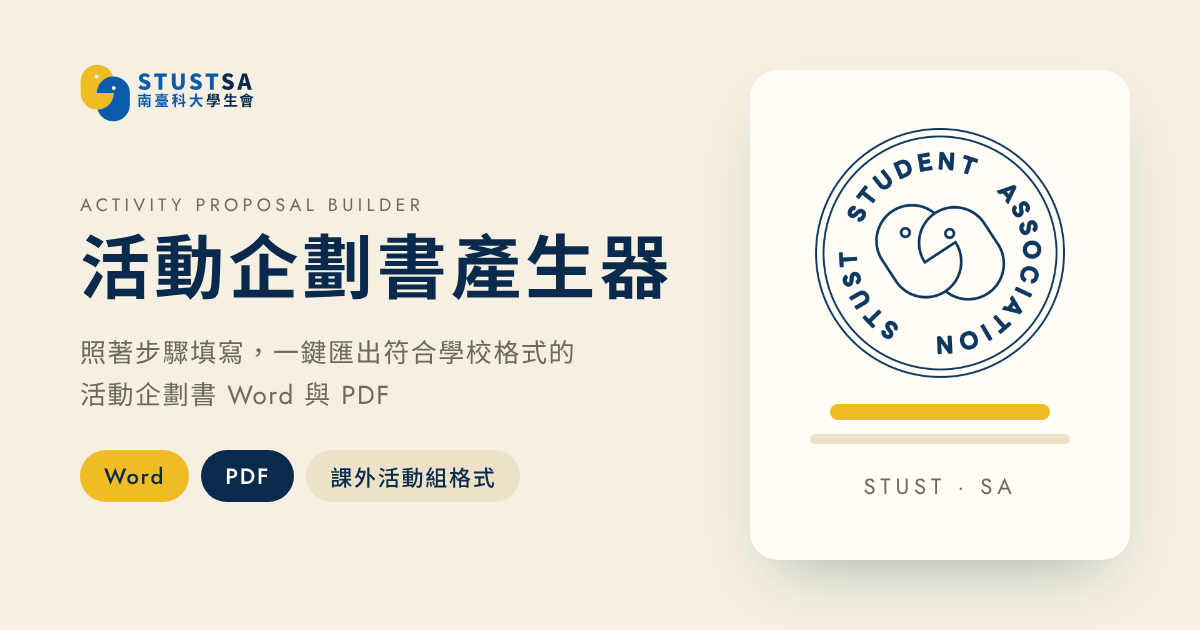
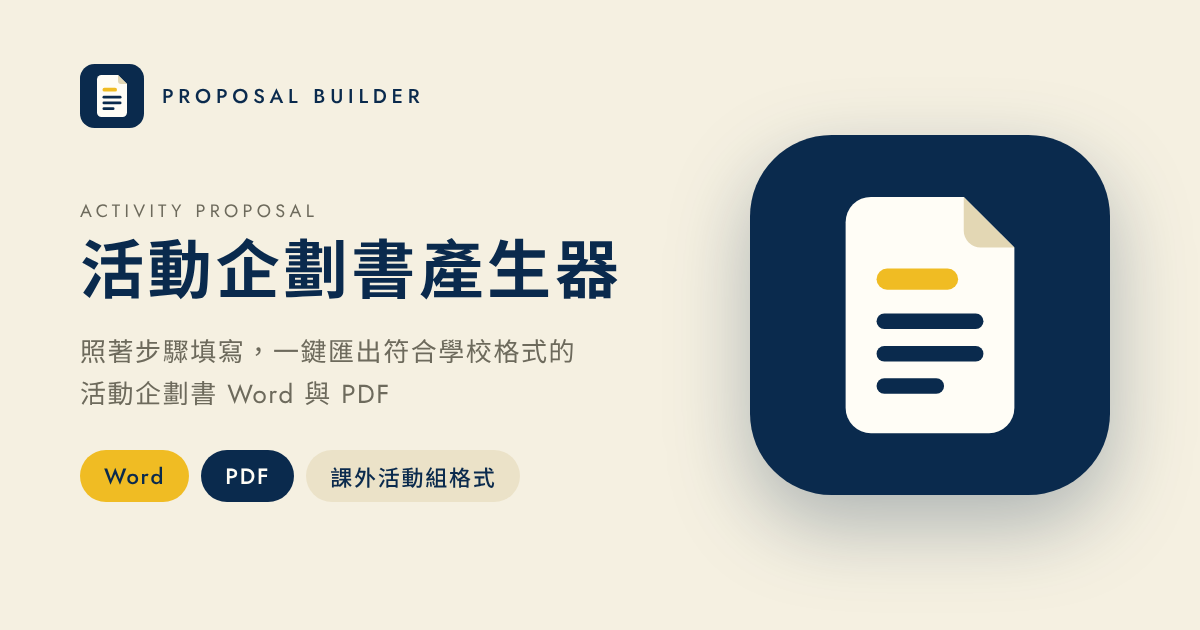
網址預覽圖改用新的企劃書圖示，拿掉學生會標誌與圓章
Claude-Session: https://claude.ai/code/session_016i4e4p2haFjCx31cF5SqkS

diff --git a/tools/og-src.html b/tools/og-src.html
@@ -5,7 +5,7 @@ body{margin:0;width:1200px;height:630px;background:#f5f0e1;font-family:"Jost","N
 .su-logo{height:58px;display:block} .su-logo .cls-1{fill:#f0bc23} .su-logo .cls-2{fill:#0a5baa} .su-logo .cls-3,.su-logo .cls-4{fill:#0a2a4d}
 .l{position:absolute;left:80px;top:64px;width:660px}
 .en{margin-top:70px;font-size:18px;letter-spacing:.24em;color:#6d6a5c}
-h1{margin:12px 0 0;font-size:70px;white-space:nowrap;font-weight:700;letter-spacing:.06em;line-height:1.1}
+h1{margin:12px 0 0;font-size:64px;white-space:nowrap;font-weight:700;letter-spacing:.06em;line-height:1.1}
 p{margin:26px 0 0;font-size:26px;letter-spacing:.06em;color:#6d6a5c;line-height:1.6}
 .chips{display:flex;gap:12px;margin-top:34px}
 .chip{border-radius:999px;padding:10px 24px 8px;font-size:22px;font-weight:500;letter-spacing:.08em;background:#ebe2c8}
@@ -15,9 +15,11 @@ p{margin:26px 0 0;font-size:26px;letter-spacing:.06em;color:#6d6a5c;line-height:
 .card .t{font-size:22px;letter-spacing:.22em;color:#6d6a5c}
 .bar{width:220px;height:16px;border-radius:999px;background:#f0bc23}
 .ln{width:260px;height:10px;border-radius:999px;background:#ebe2c8;margin-top:-12px}
+.brand{display:flex;align-items:center;gap:18px;font-size:20px;letter-spacing:.24em;font-weight:500}.brand img{width:64px;height:64px}
+.big{position:absolute;right:90px;top:135px;width:360px;height:360px;filter:drop-shadow(0 30px 40px rgba(10,42,77,.3))}
 </style></head><body>
-<div class="l"><svg class="su-logo" viewBox="23 51 541 180" role="img" aria-label="南臺科技大學學生會 STUSTSA"><path class="cls-1" d="M75,141a51.19,51.19,0,0,1,15-36.23,51.19,51.19,0,0,1,35.62-15.11A51.37,51.37,0,0,0,25.08,104.79V141A51.37,51.37,0,0,0,76.45,192.4a6.27,6.27,0,0,0,.75,0,50.76,50.76,0,0,0,24.19-6.43,52.2,52.2,0,0,0,11.46-8.68,51.2,51.2,0,0,0,15-36.24ZM68.8,90.21a3.57,3.57,0,0,1,0-.56,6.18,6.18,0,1,1,12.36,0v.22a6.18,6.18,0,0,1-12.33.34Z"/><path class="cls-2" d="M126.32,89.65a6.78,6.78,0,0,0-.78,0A51.36,51.36,0,0,0,75,141H127.8a51.2,51.2,0,0,1-15,36.24,52.2,52.2,0,0,1-11.46,8.68,50.76,50.76,0,0,1-24.19,6.43,51.39,51.39,0,0,0,100.5-15.11V141A51.39,51.39,0,0,0,126.32,89.65ZM134,126.44a6.18,6.18,0,0,1-6.15,5.62c-.28,0-.53,0-.81-.05a6.15,6.15,0,0,1-4.87-3.71,5.67,5.67,0,0,1-.5-2.19v-.23a6.1,6.1,0,0,1,2.2-4.7,6.62,6.62,0,0,1,1.64-1,5.86,5.86,0,0,1,2.34-.47,6.16,6.16,0,0,1,6.18,6.17A3.44,3.44,0,0,1,134,126.44Z"/><path class="cls-2" d="M204.21,124.34,211,116.1c3.49,3,8.11,5.09,12.06,5.09,4.43,0,6.5-1.67,6.5-4.35,0-2.88-2.74-3.82-7-5.63l-6.37-2.68c-5.22-2.08-10.11-6.43-10.11-13.67,0-8.37,7.5-15.07,18.09-15.07a23.2,23.2,0,0,1,16.21,6.56l-6,7.51c-3.29-2.48-6.37-3.82-10.25-3.82-3.69,0-5.9,1.47-5.9,4.08,0,2.82,3.08,3.89,7.5,5.63l6.24,2.48c6.16,2.48,9.84,6.63,9.84,13.67,0,8.31-7,15.61-19,15.61A27.89,27.89,0,0,1,204.21,124.34Z"/><path class="cls-2" d="M266.65,90.64H253.19v-10h39v10H278.65v39.93h-12Z"/><path class="cls-2" d="M308,107.12V80.66h11.93V108.4c0,9.44,2.81,12.79,8.31,12.79s8.44-3.35,8.44-12.79V80.66h11.52v26.46c0,16.82-6.7,24.39-20,24.39S308,123.94,308,107.12Z"/><path class="cls-2" d="M363.8,124.34l6.84-8.24c3.48,3,8.1,5.09,12.06,5.09,4.42,0,6.5-1.67,6.5-4.35,0-2.88-2.75-3.82-7-5.63l-6.36-2.68c-5.23-2.08-10.12-6.43-10.12-13.67,0-8.37,7.5-15.07,18.09-15.07A23.2,23.2,0,0,1,400,86.35l-6,7.51c-3.28-2.48-6.36-3.82-10.25-3.82-3.68,0-5.9,1.47-5.9,4.08,0,2.82,3.09,3.89,7.51,5.63l6.23,2.48c6.16,2.48,9.85,6.63,9.85,13.67,0,8.31-7,15.61-19,15.61A27.89,27.89,0,0,1,363.8,124.34Z"/><path class="cls-2" d="M426.25,90.64H412.78v-10h39v10H438.24v39.93h-12Z"/><path class="cls-3" d="M462.9,124.34l6.83-8.24c3.48,3,8.11,5.09,12.06,5.09,4.42,0,6.5-1.67,6.5-4.35,0-2.88-2.75-3.82-7-5.63l-6.36-2.68c-5.23-2.08-10.12-6.43-10.12-13.67,0-8.37,7.51-15.07,18.09-15.07a23.22,23.22,0,0,1,16.22,6.56l-6,7.51c-3.28-2.48-6.36-3.82-10.25-3.82-3.68,0-5.89,1.47-5.89,4.08,0,2.82,3.08,3.89,7.5,5.63l6.23,2.48c6.17,2.48,9.85,6.63,9.85,13.67,0,8.31-7,15.61-19,15.61A27.87,27.87,0,0,1,462.9,124.34Z"/><path class="cls-3" d="M526.41,80.66h14.34l15.48,49.91h-12.6l-2.88-11.45H526l-2.88,11.45H510.94Zm1.88,29.21h10.18l-1.07-4.22c-1.34-5-2.61-10.92-3.95-16h-.27c-1.21,5.22-2.55,11-3.82,16Z"/><path class="cls-2" d="M226.13,151.35v3.42h15.46v24.76c0,2.64-.64,3.87-2.51,4.65s-4.51.77-8.16.77a19,19,0,0,0-1.78-4.6c2.24.13,5.06.13,5.79.09s1-.23,1-1V159.74H219.07a24.92,24.92,0,0,1,2.55,4.88l-3.47,1.14H225l-.32-.1a32.83,32.83,0,0,0,2.78-5.88l4.56,1.28c-1,1.69-1.87,3.33-2.73,4.7h3.92V170h-7.71v3h8.71v4.33h-8.71v6.48h-5.11v-6.48H212V173h8.39v-3H213v-4.24h4a29.25,29.25,0,0,0-2.23-4.79l4.15-1.23h-8.66V185H204.7V154.77h15.51v-3.42H203v-5.06h17.24v-3.47h5.92v3.47h17.15v5.06Z"/><path class="cls-2" d="M296.8,144.78v3.33H279.16v1.51h13.95v3.14h-33v-3.14h13.54v-1.51H256.45v-3.33h17.24V142.5h5.47v2.28Zm-17.64,35.7h17.37v3.65H256.77v-3.65h16.92V179h-12.5v-3.19h12.5v-1.32c-7.8.18-9.17.32-10.17.64-.18-.73-.73-2.42-1.09-3.38a10.5,10.5,0,0,0,2.37-.59,26.81,26.81,0,0,0,3.1-1.32h-6.2v-.73H257v-6.84h39.31v6.84h-5.11v-3.47H261.79V167H291v2.87h-3.24a42.32,42.32,0,0,1,5.06,3.51l-3,2.46h2.69V179H279.16Zm12.54-26.4V161H261.79v-6.89Zm-5.34,2.65h-19.6v1.59h19.6Zm-12.58,13.13c-1,.64-2,1.23-3.06,1.73l12.5-.18c-.87-.5-1.74-1-2.47-1.37l.23-.18Zm5.38,6h10.21c-.55-.5-1.28-1.09-2.05-1.68l-8.16.22Z"/><path class="cls-2" d="M323.7,171.59a48.94,48.94,0,0,0-2.73-5v18.51h-5.25V168.67a42.2,42.2,0,0,1-5,9,29.88,29.88,0,0,0-2.5-5.15c2.55-2.92,5.1-7.8,6.75-12.22h-6.16v-5.06h6.88v-5.15c-1.77.27-3.46.54-5.15.73a16.15,16.15,0,0,0-1.46-4.2,72.25,72.25,0,0,0,14.68-3.74l3.06,4.43A40.36,40.36,0,0,1,321,149v6.25h6v5.06h-6v.37c1.32,1.27,5.06,5.56,5.93,6.61Zm22.48,2V185h-5.33V174.51l-13.77,2.37-.87-5.15,14.64-2.51V142.5h5.33v25.81l4.51-.78.87,5.06Zm-11.44-6.34a41.61,41.61,0,0,0-7.25-7l3.46-3.1a39.89,39.89,0,0,1,7.48,6.61Zm1.18-12a34.09,34.09,0,0,0-6.79-6.84l3.56-3.1c2.46,1.87,5.65,4.56,7,6.56Z"/><path class="cls-2" d="M387.63,160.33c3,8.89,8.52,16,17.05,19.51a21.62,21.62,0,0,0-4,5.11c-8.26-3.88-13.55-10.53-17.1-19.33A31.4,31.4,0,0,1,366.52,185a16.16,16.16,0,0,0-4.06-4.61c10.44-4.65,14.77-12.22,16.55-20.06H363.32v-5.61h16.6c.46-4.28.41-8.43.46-12.17h5.92c0,3.74-.09,7.93-.54,12.17h17.91v5.61Z"/><path class="cls-4" d="M457.43,176.74H440V180c0,2.41-.54,3.6-2.41,4.33s-4.38.68-7.8.68a17.61,17.61,0,0,0-1.64-4.56c2.14.09,4.88.09,5.56.05s1-.14,1-.69v-3.1H416.21v-4.28h18.47v-1.32a33.69,33.69,0,0,0,5-2.65H425.06v-3.78h19.83l1.14-.28,3.06,2.78a63.39,63.39,0,0,1-8.71,5.25h17.05Zm-35.24-8.57H417v-9.34h3.42l-.82-13.55a61.85,61.85,0,0,0,9.21-2.55l2.24,3.15a45.51,45.51,0,0,1-6.25,1.73l.09,1.32h5.79v3.38H425.1l.1,1.55h5.6v2.32a29.16,29.16,0,0,0,3.19-1.73c-.86-.55-1.73-1-2.55-1.51L434,150.8c.91.46,1.87,1,2.87,1.55a17.54,17.54,0,0,0,1.78-1.91l3.56,1.05a20.41,20.41,0,0,1-2.42,2.73,21.8,21.8,0,0,1,2.78,2.1l-2.73,2.37a31.81,31.81,0,0,0-2.65-2.24,33.27,33.27,0,0,1-3.69,2.38h14.77l.18-1.6H443v-3.37h5.7l.09-1.55h-5.56v-3.38H449l.09-1.5H443V144h11.4c-.23,4.79-.59,10.58-1,14.82h3.38v9.34h-5.38v-5.42H422.19Zm3.28-9.34h7.38a26.55,26.55,0,0,0-2.05-2.1v.5h-5.42Zm14.13-8.39a23.47,23.47,0,0,0-2.37-1.92,23.07,23.07,0,0,1-3.69,2.28,21.77,21.77,0,0,0-2.83-2.42,20.62,20.62,0,0,0,3.47-1.77c-.87-.5-1.64-1-2.47-1.37l2.42-2.1c.87.41,1.83.91,2.78,1.46a14.49,14.49,0,0,0,1.64-1.82l3.56,1.05a16.59,16.59,0,0,1-2.28,2.5c.91.64,1.73,1.28,2.37,1.83Z"/><path class="cls-4" d="M510.91,178.48v5.33h-41v-5.33h17.6v-9.17H475.17v-5.24h12.35v-8h-9.44a37.22,37.22,0,0,1-4.24,6.62,42.89,42.89,0,0,0-4.87-3.24c3.55-3.83,6.52-10.12,8.07-16.32l5.6,1.23c-.64,2.19-1.36,4.33-2.14,6.43h7v-8.21h5.7v8.21h15.37V156H493.22v8h13.63v5.24H493.22v9.17Z"/><path class="cls-4" d="M543.61,143.87l-.68.82c4.2,3.69,11.67,6.75,18.92,8.25a17.57,17.57,0,0,0-3.42,4.11c-.91-.23-1.87-.55-2.82-.82V168H523.92V156.5c-1,.32-1.92.64-2.83.91a22.81,22.81,0,0,0-2.92-4.15c8.39-2,16.55-5.83,20.66-11.12ZM554,155.63a49.91,49.91,0,0,1-6.2-2.78V154h-16v-.91a53.07,53.07,0,0,1-5.52,2.5Zm-27.49,13.86h26.81v15.42h-5.56v-1.1H531.81V185h-5.34Zm5.15-4.78a17.51,17.51,0,0,0-1.55-4.74l3.51-1h-5.15v5.75Zm.19,8.34v1.82h15.91v-1.82Zm15.91,7.2v-1.82H531.81v1.82ZM537.37,159h-3.56a20.9,20.9,0,0,1,1.83,4.84l-2.92.91h4.65Zm6.56-8.43a44.93,44.93,0,0,1-3.83-3c-1.18,1-2.5,2-3.87,3ZM541.75,159v5.75H546l-2.74-.78a35.27,35.27,0,0,0,1.78-5Zm9,0H546l3.56.87c-.91,1.82-1.78,3.6-2.51,4.88h3.69Z"/></svg><div class="en">ACTIVITY PROPOSAL BUILDER</div><h1>活動企劃書產生器</h1>
+<div class="l"><div class="brand"><img src="../icons/favicon.svg"><span>PROPOSAL BUILDER</span></div><div class="en">ACTIVITY PROPOSAL</div><h1>活動企劃書產生器</h1>
 <p>照著步驟填寫，一鍵匯出符合學校格式的<br>活動企劃書 Word 與 PDF</p>
 <div class="chips"><span class="chip y">Word</span><span class="chip n">PDF</span><span class="chip">課外活動組格式</span></div></div>
-<div class="card"><img src="../assets/cover-seal.png"><div class="bar"></div><div class="ln"></div><div class="t">STUST · SA</div></div>
+<img class="big" src="../icons/favicon.svg">
 </body></html>

diff --git a/index.html b/index.html
@@ -11,14 +11,14 @@
 <meta property="og:title" content="活動企劃書產生器">
 <meta property="og:description" content="照著步驟填寫，一鍵匯出符合學校格式的活動企劃書 Word 與 PDF。">
 <meta property="og:url" content="https://stustsa.github.io/proposal/">
-<meta property="og:image" content="https://stustsa.github.io/proposal/og.png">
+<meta property="og:image" content="https://stustsa.github.io/proposal/og.png?v=2">
 <meta property="og:image:width" content="1200">
 <meta property="og:image:height" content="630">
 <meta property="og:image:alt" content="活動企劃書產生器｜南臺科技大學學生會">
 <meta name="twitter:card" content="summary_large_image">
 <meta name="twitter:title" content="活動企劃書產生器">
 <meta name="twitter:description" content="照著步驟填寫，一鍵匯出符合學校格式的活動企劃書 Word 與 PDF。">
-<meta name="twitter:image" content="https://stustsa.github.io/proposal/og.png">
+<meta name="twitter:image" content="https://stustsa.github.io/proposal/og.png?v=2">
 <link rel="icon" href="icons/favicon.svg" type="image/svg+xml">
 <link rel="icon" href="icons/favicon-32.png" sizes="32x32" type="image/png">
 <link rel="apple-touch-icon" href="icons/apple-touch-icon.png">
